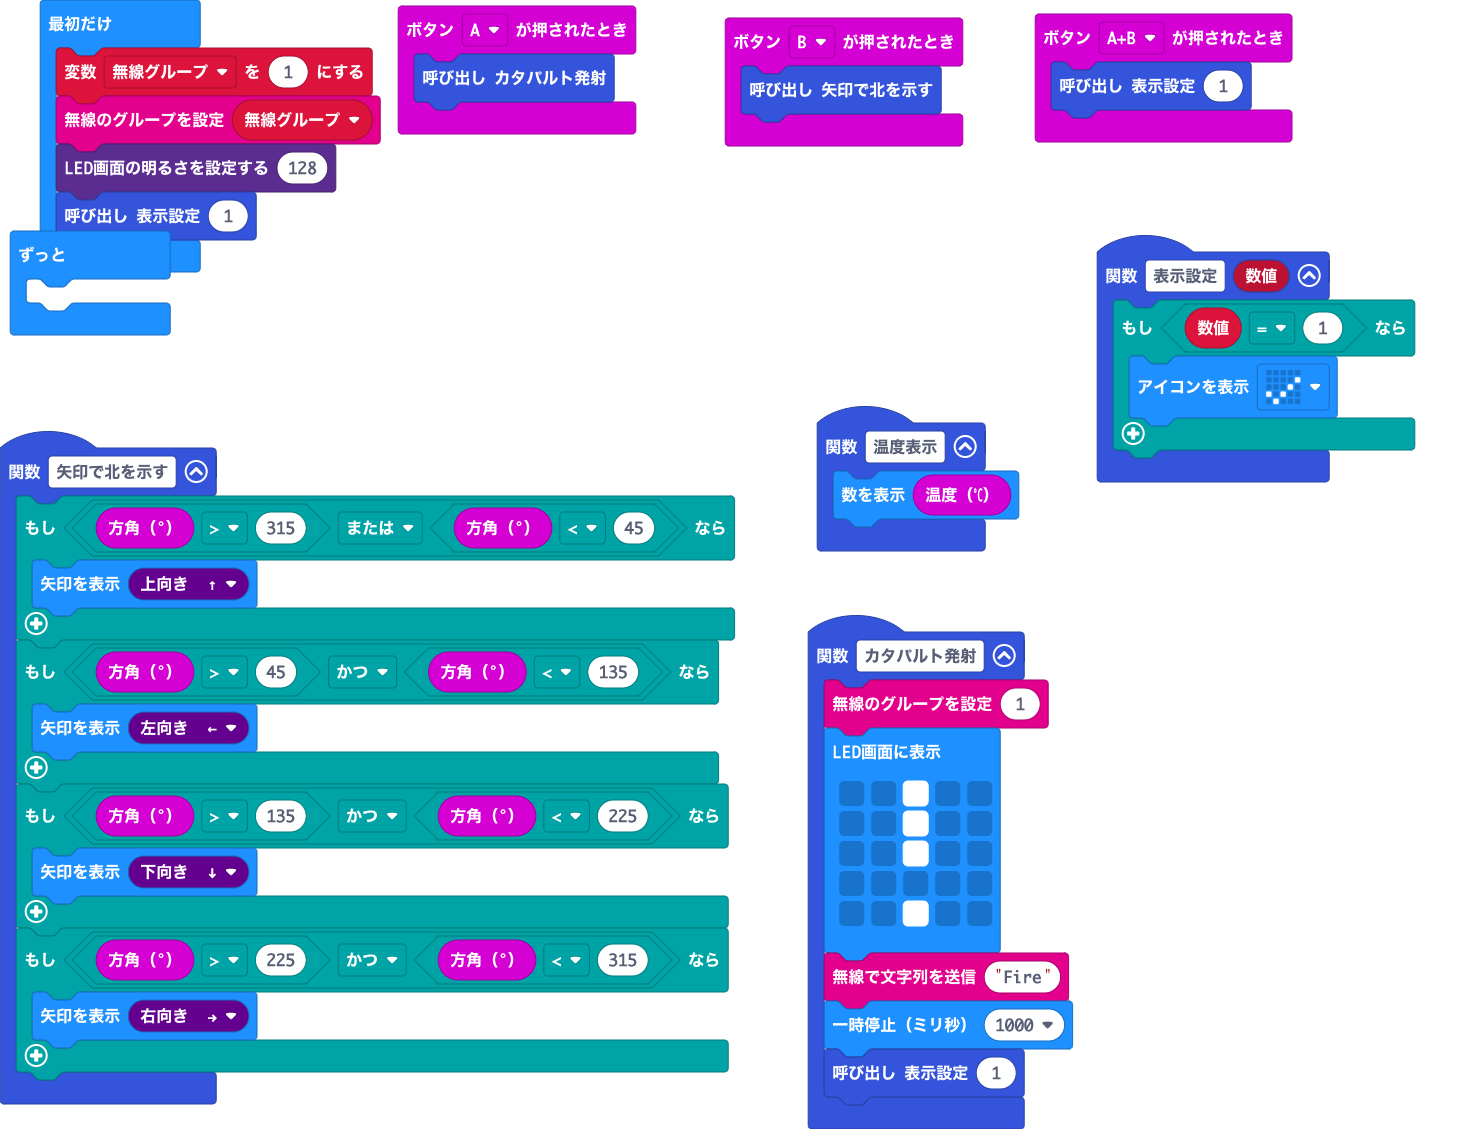
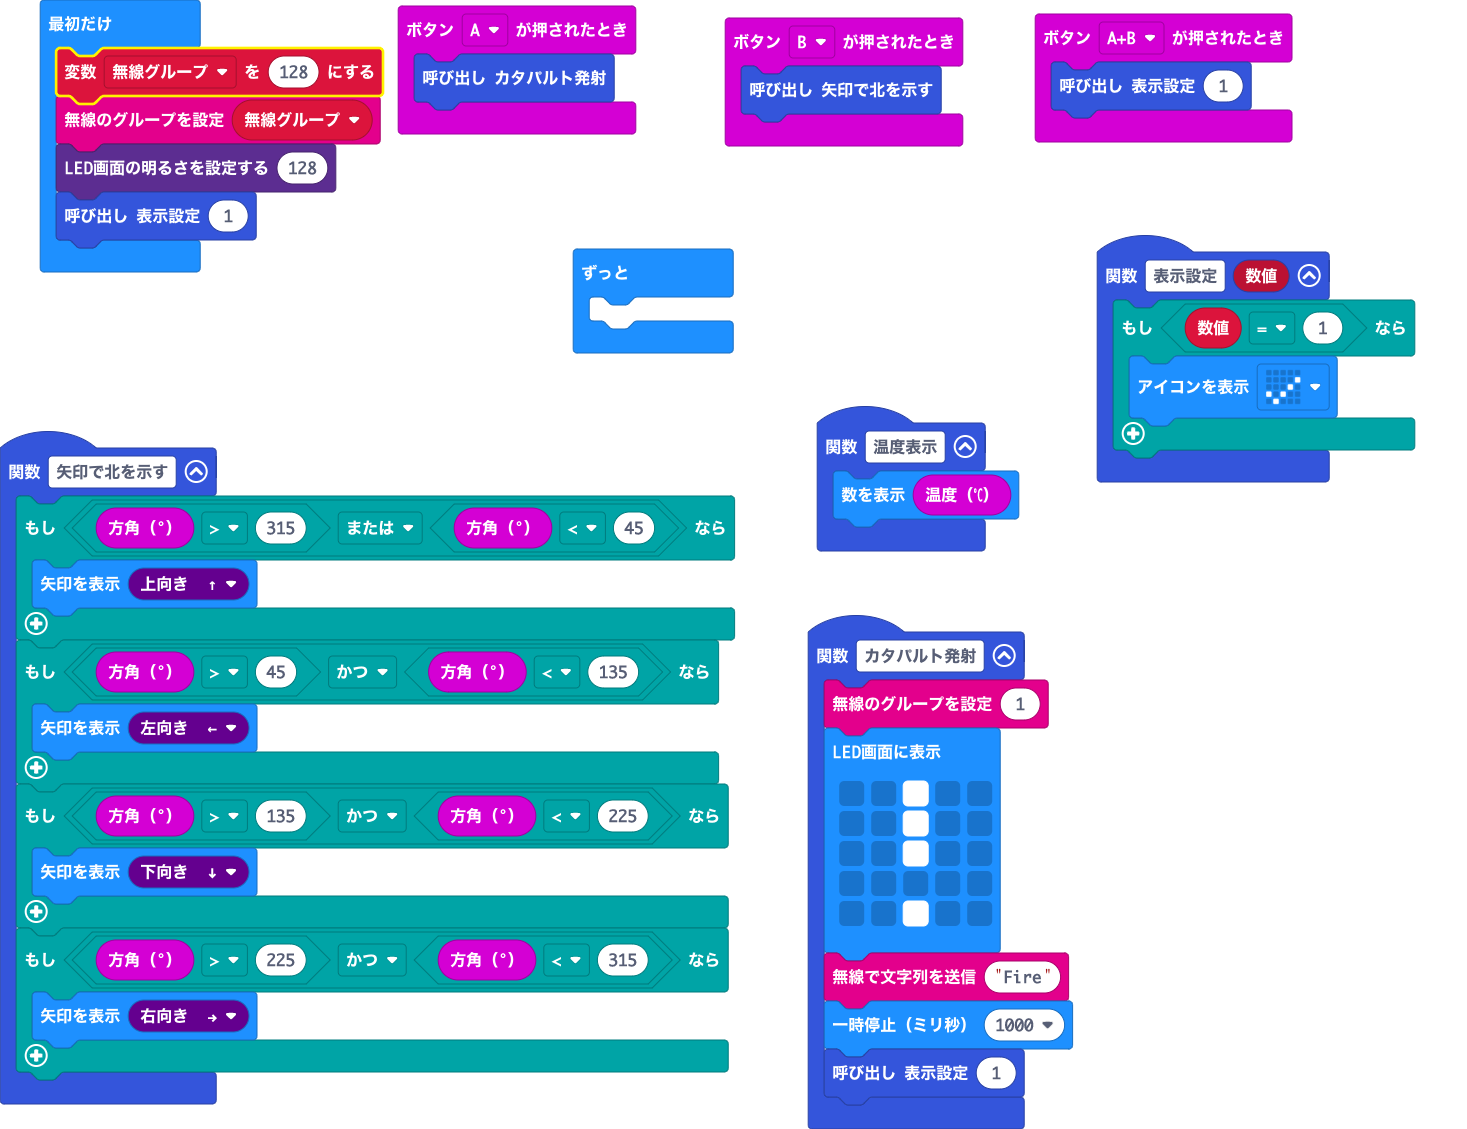
無線番号を変更

Changed region(s): [[0.3681, 0.217, 0.5215, 0.341], [0.0307, 0.031, 0.2761, 0.093], [0.0, 0.186, 0.1227, 0.31]]

diff --git a/main.ts b/main.ts
@@ -42,7 +42,7 @@ function 表示設定 (数値: number) {
         basic.showIcon(IconNames.Yes)
     }
 }
-let 無線グループ = 1
+let 無線グループ = 128
 radio.setGroup(無線グループ)
 led.setBrightness(128)
 表示設定(1)
